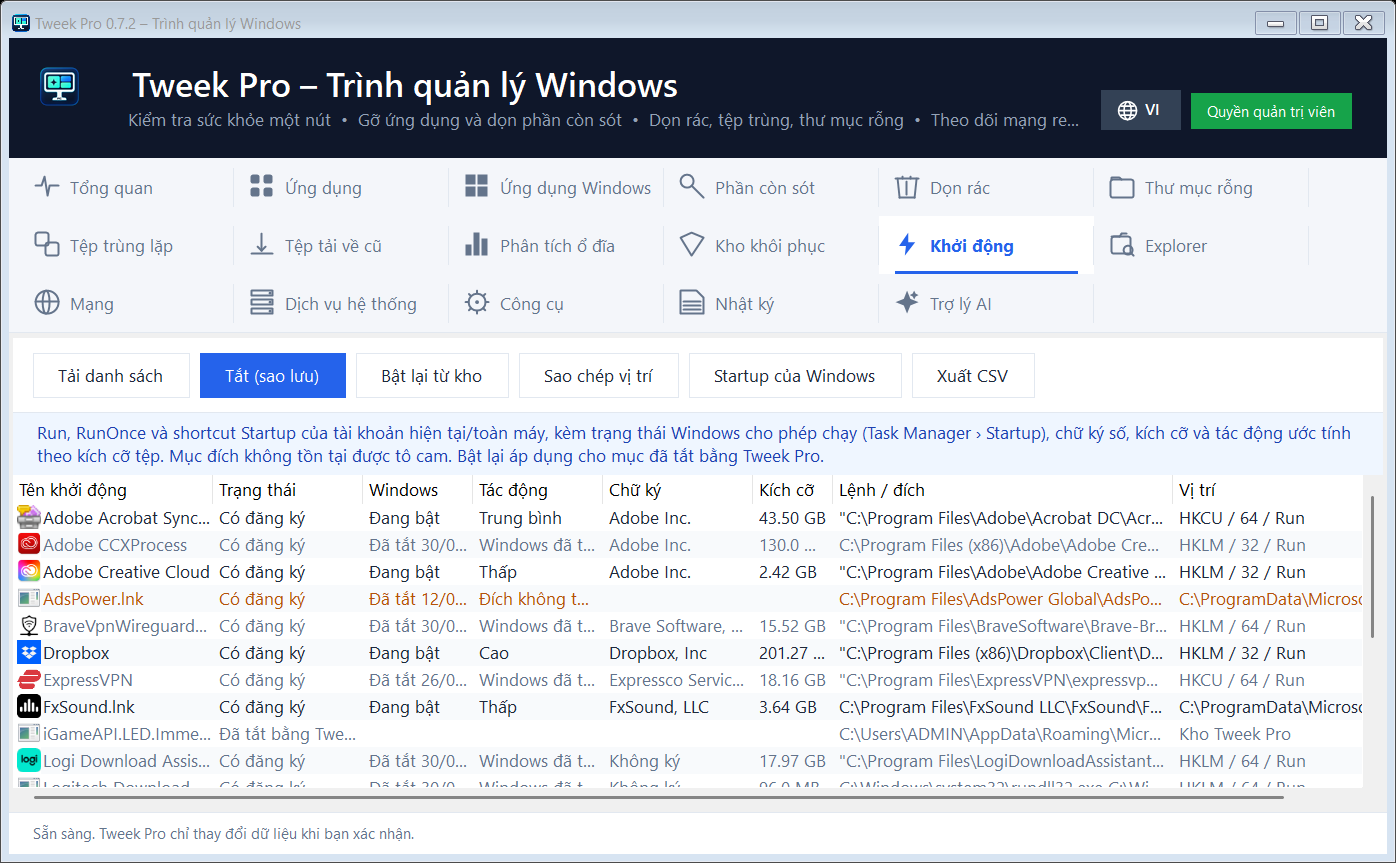
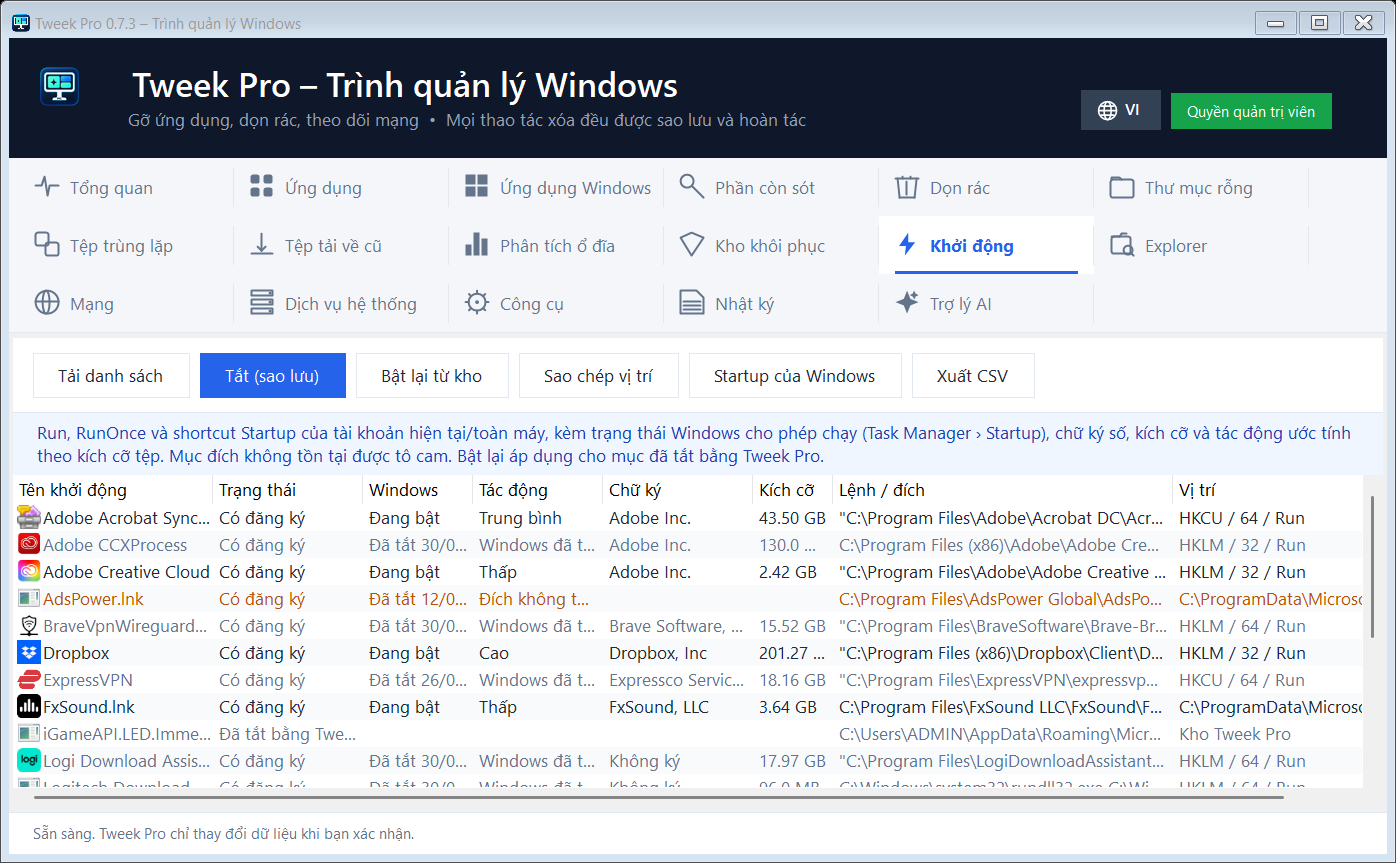
Shorten the header subtitle so the backup promise is no longer hidden behind the language and admin buttons
The right-hand cluster now reserves its preferred width instead of overlaying the label. Preview health banner uses the next patch so it stays newer than the running version.

Changed region(s): [[0.0924, 0.1205, 0.6468, 0.1506], [0.6777, 0.0904, 0.9857, 0.1506]]

diff --git a/App.cs b/App.cs
@@ -31,7 +31,7 @@ namespace TweekPro {
    Font=Theme.Body;BackColor=Theme.Canvas;ForeColor=Theme.Text;AutoScaleDimensions=new SizeF(96F,96F);AutoScaleMode=AutoScaleMode.Dpi;
    try{Branding.ApplyWindowIcons(this,out brandIconSmall,out brandIcon);}catch(Exception){}
    FormClosed+=(s,e)=>{if(brandIcon!=null)brandIcon.Dispose();if(brandIconSmall!=null)brandIconSmall.Dispose();};
-   var header=Theme.HeaderBand(AppTitle+" – "+Core.L.T(Tagline),"Kiểm tra sức khỏe một nút  •  Gỡ ứng dụng và dọn phần còn sót  •  Dọn rác, tệp trùng, thư mục rỗng  •  Theo dõi mạng realtime  •  Mọi thao tác xóa đều sao lưu, hoàn tác được",96);
+   var header=Theme.HeaderBand(AppTitle+" – "+Core.L.T(Tagline),"Gỡ ứng dụng, dọn rác, theo dõi mạng  •  Mọi thao tác xóa đều được sao lưu và hoàn tác",96);
    BuildHeaderActions(header);
    status.Text=Core.L.T("Sẵn sàng. Tweek Pro chỉ thay đổi dữ liệu khi bạn xác nhận.");
    BuildTabs();
@@ -152,14 +152,14 @@ namespace TweekPro {
   void SaveSettings(){try{settings.Save(Core.Paths.SettingsFile);}catch(Exception e){Core.Log.Warn("Không lưu được settings.json: "+e.Message);}}
   /// <summary>Adds the privilege badge and the compact language toggle to the right side of the header band.</summary>
   void BuildHeaderActions(Panel header){
-   var right=new FlowLayoutPanel{Dock=DockStyle.Right,AutoSize=true,AutoSizeMode=AutoSizeMode.GrowAndShrink,FlowDirection=FlowDirection.RightToLeft,WrapContents=false,Padding=new Padding(0,22,0,0),BackColor=Theme.Header};
+   var right=new FlowLayoutPanel{Dock=DockStyle.Right,FlowDirection=FlowDirection.RightToLeft,WrapContents=false,Padding=new Padding(16,22,0,0),BackColor=Theme.Header};
    bool elevated=Core.Elevation.IsElevated;
    var badge=new Label{Text=Core.Elevation.BadgeText,AutoSize=true,Padding=new Padding(10,6,10,6),Margin=new Padding(8,4,0,0),Font=Theme.Small,ForeColor=Color.White,BackColor=elevated?Theme.Success:Color.FromArgb(51,65,85)};
    right.Controls.Add(badge);
    var language=Branding.LanguageButton(Core.L.English?"EN":"VI",Core.L.T(Core.L.English?"Chuyển sang tiếng Việt":"Switch to English"));language.Margin=new Padding(8,2,0,0);
    language.Click+=async(s,e)=>await Guard(()=>{SwitchLanguage();return Task.FromResult(0);});
    right.Controls.Add(language);
-   header.Controls.Add(right);
+   header.Controls.Add(right);right.Width=right.PreferredSize.Width;
   }
   /// <summary>Toggles between Vietnamese and English, saves the preference and relaunches so every tab is rebuilt in the new language.</summary>
   void SwitchLanguage(){

diff --git a/Core/LangEn.cs b/Core/LangEn.cs
@@ -7,7 +7,7 @@ namespace TweekPro.Core {
   public static readonly Dictionary<string,string> Table=new Dictionary<string,string>(StringComparer.Ordinal){
    // Identity
    {"Trình quản lý Windows","Windows Manager"},
-   {"Kiểm tra sức khỏe một nút  •  Gỡ ứng dụng và dọn phần còn sót  •  Dọn rác, tệp trùng, thư mục rỗng  •  Theo dõi mạng realtime  •  Mọi thao tác xóa đều sao lưu, hoàn tác được","One-click health check  •  Uninstall and clean leftovers  •  Junk, duplicates, empty folders  •  Realtime network view  •  Every deletion is backed up and reversible"},
+   {"Gỡ ứng dụng, dọn rác, theo dõi mạng  •  Mọi thao tác xóa đều được sao lưu và hoàn tác","Uninstall, clean junk, watch the network  •  Every deletion is backed up and reversible"},
    {"Sẵn sàng. Tweek Pro chỉ thay đổi dữ liệu khi bạn xác nhận.","Ready. Tweek Pro only changes data after you confirm."},
    {"Khởi động lại với quyền quản trị","Restart as administrator"},
    {"Quyền quản trị viên","Administrator"},{"Quyền người dùng","Standard user"},

diff --git a/Health/HealthUI.cs b/Health/HealthUI.cs
@@ -116,7 +116,8 @@ namespace TweekPro {
 
   /// <summary>Fills the Overview tab with illustrative numbers for --preview health; no probes run.</summary>
   public void PreviewHealth(){
-   ShowUpdateBanner(new TweekPro.Update.UpdateInfo{UpdateAvailable=true,Latest="0.7.2",Current=Version,PageUrl=TweekPro.Update.UpdateCheck.ReleasesPage});
+   var parts=Version.Split('.');int patch;string newer=parts.Length==3&&int.TryParse(parts[2],out patch)?parts[0]+"."+parts[1]+"."+(patch+1):Version;
+   ShowUpdateBanner(new TweekPro.Update.UpdateInfo{UpdateAvailable=true,Latest=newer,Current=Version,PageUrl=TweekPro.Update.UpdateCheck.ReleasesPage});
    var sample=new HealthInputs{JunkBytes=730L*HealthCheck.MB,JunkFiles=4812,JunkLockedRules=1,LeftoverCandidates=3,EmptyFolders=17,EmptyRoot=@"C:\Users\ADMIN\Downloads",VaultBackups=9,VaultBytes=2200L*HealthCheck.MB,VaultStale=4,VaultStaleBytes=640L*HealthCheck.MB,AutorunEntries=12,DiskName="Ổ C:",DiskFreeBytes=38L*HealthCheck.GB,DiskTotalBytes=476L*HealthCheck.GB,PupCount=3,PupHigh=1};
    healthReport=HealthCheck.Evaluate(sample);healthGauge.Report=healthReport;RenderHealth();tabs.SelectedTab=healthTab;
   }

diff --git a/README.md b/README.md
@@ -219,6 +219,10 @@ Chưa có theo dõi cài đặt (install monitor), forced uninstall, quản lý 
 
 ## Lịch sử phiên bản
 
+### 0.7.n (chưa phát hành)
+
+- Dòng mô tả trên thanh tiêu đề rút còn «Gỡ ứng dụng, dọn rác, theo dõi mạng • Mọi thao tác xóa đều được sao lưu và hoàn tác» và dừng trước nút ngôn ngữ / quyền, không còn bị che.
+
 ### 0.7.3 (21/09/2026)
 
 - **Explorer → Duyệt tệp**: trình duyệt thư mục riêng của Tweek Pro hiện **mọi** tệp/thư mục ẩn và hệ thống bất kể thiết lập Explorer, có cột Đuôi, Mô tả (loại theo shell), Dung lượng, Sửa lần cuối, Thuộc tính; mục ẩn in nghiêng, hệ thống màu vàng, tệp giả dạng (`hoadon.pdf.exe`) màu đỏ; bấm một tệp là xem chi tiết ngay (mã băm tính khi bấm «Xem chi tiết + băm»); Lên một cấp / This PC / Thư mục người dùng / lọc «Chỉ hiện mục ẩn / hệ thống» / Mở trong Explorer / Thuộc tính Windows.

diff --git a/WORKSTATE.md b/WORKSTATE.md
@@ -1,8 +1,12 @@
 # Tweek Pro — current work checkpoint
 
-Updated: 2026-09-21 23:35 (Asia/Bangkok).
-Status: DONE (Cursor). Owner request 23:08: README must include screenshots of every functional tab.
+Updated: 2026-09-22 00:10 (Asia/Bangkok).
+Status: DONE (Cursor). Owner request 00:06: the header line about backed-up deletions is covered by the language/admin buttons and looks bad — shorten it.
 Last editor: Cursor.
+
+## Current task (00:10)
+
+G. DONE Header subtitle shortened to "Gỡ ứng dụng, dọn rác, theo dõi mạng • Mọi thao tác xóa đều được sao lưu và hoàn tác" (EN pair in LangEn). `BuildHeaderActions` no longer AutoSize+Dock (that overlay let the label run under the buttons); the right cluster gets an explicit `PreferredSize` width so the subtitle stops before VI / Quyền quản trị viên. `PreviewHealth` sample update is current patch + 1 (was hardcoded 0.7.2, which rendered "0.7.2 is newer than 0.7.3"). Screenshots regenerated. Verification below.
 
 ## Current task (23:35)
 
